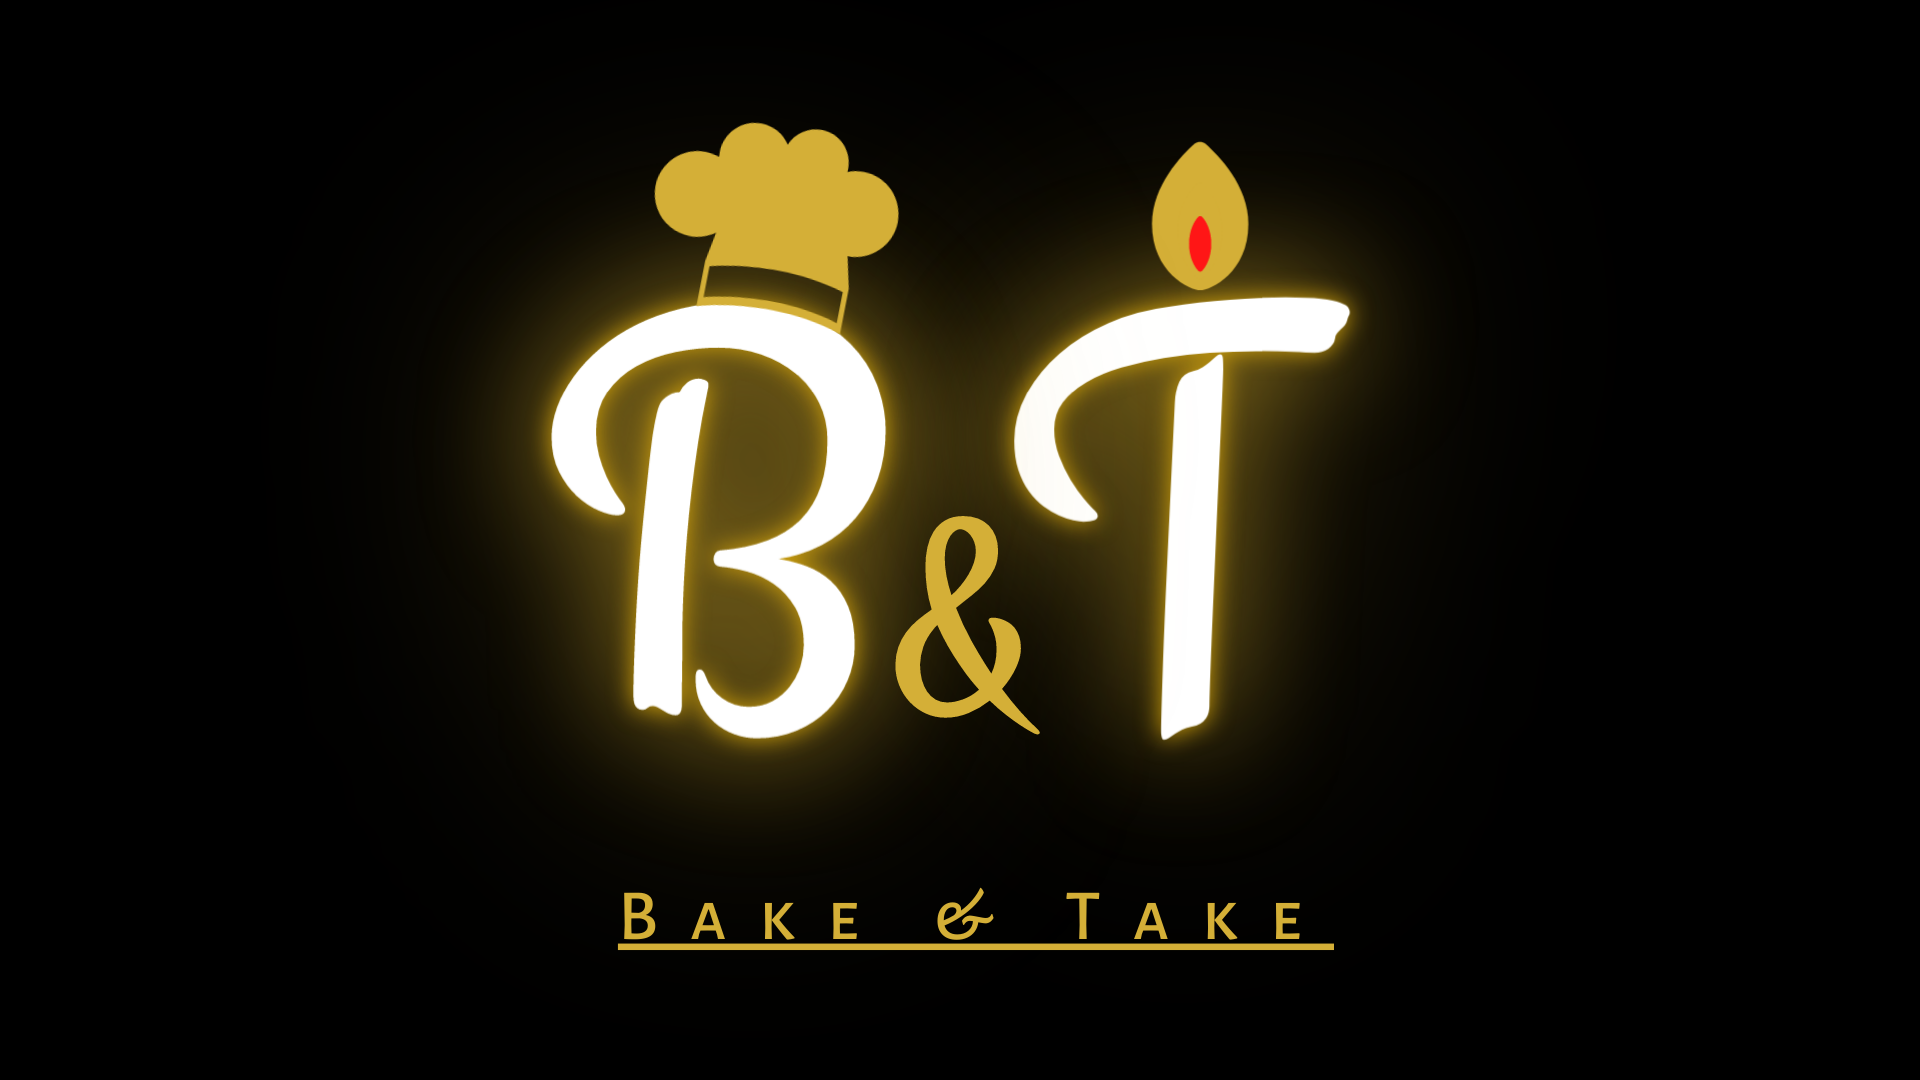
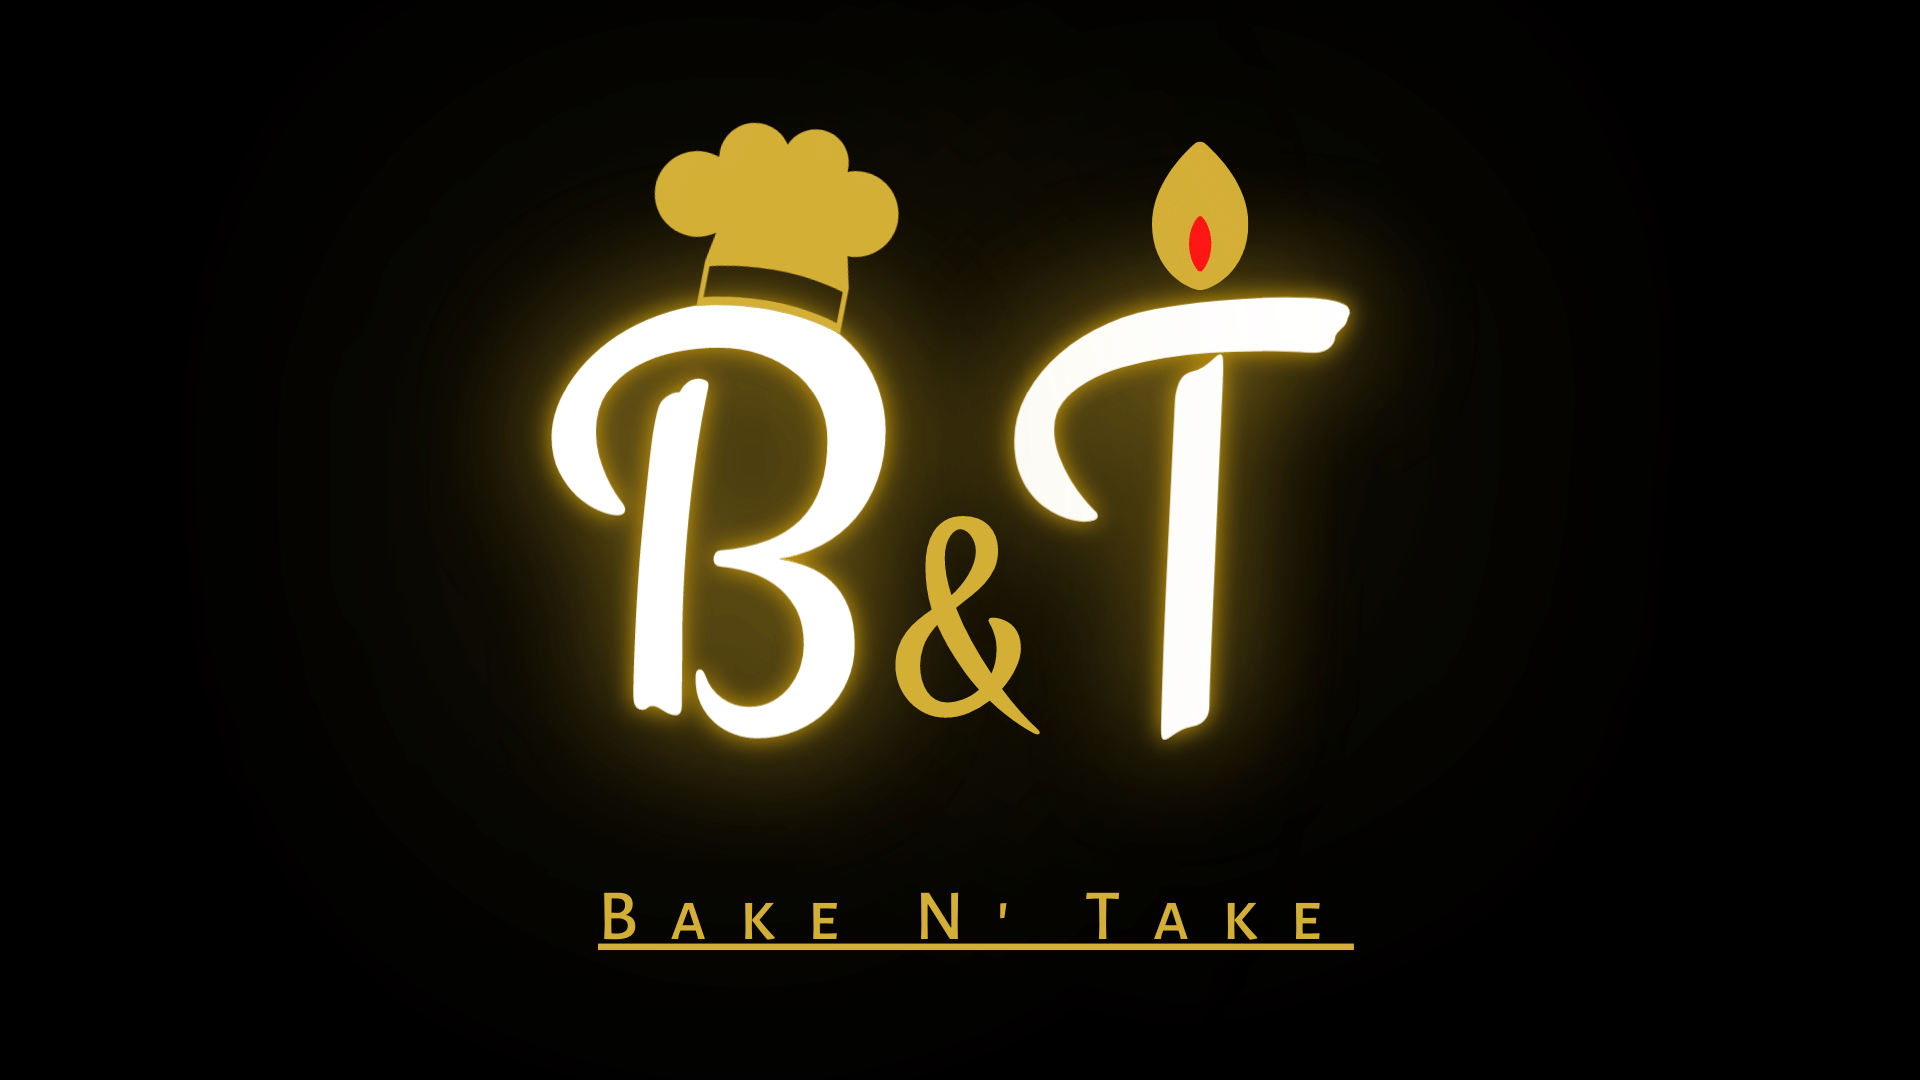
name changes

Changed region(s): [[0.5625, 0.825, 0.6875, 0.8861], [0.3125, 0.825, 0.4375, 0.8861], [0.4688, 0.825, 0.5312, 0.8861]]

diff --git a/src/components/topbar/topbar.module.css b/src/components/topbar/topbar.module.css
@@ -33,7 +33,7 @@
   margin: 1rem ;
   font-size: 1.2rem;
   text-decoration: none;
-  color:  #FFD700;
+  color:  #d4af37;
   padding: 0.2em;
   border-radius: 10%;
 }
@@ -45,8 +45,8 @@
   border-radius: 1rem;
  }
 @keyframes navlinks {
-  from{ color: #FFD700; background-color: black;}
-  to{color: black; background-color: #FFD700;}
+  from{ color: #d4af37; background-color: black;}
+  to{color: black; background-color: #d4af37;}
 }
 .topbar_links a:hover{
    opacity: 0.8;
@@ -63,7 +63,7 @@
   height: 21px;
   border-radius: 5px;
   border: none;
-  background-color: #FFD700;
+  background-color: #d4af37;
   display: none;
 }
 
@@ -137,7 +137,7 @@
   .toggle_button_label span::after,
   .toggle_button_label span::before{
     display: block;
-    background:#FFD700;
+    background:#d4af37;
     width: 1.5em;
     height: 0.2em;
     border-radius: 2px;
@@ -165,7 +165,7 @@
   }
   .toggle_button:checked ~  .toggle_button_label p{
     visibility: visible;
-    color: #FFD700;
+    color: #d4af37;
     position: absolute;
     top: -12%;
     left: -50%;

diff --git a/src/pages/Orderplaced/orderplaced.module.css b/src/pages/Orderplaced/orderplaced.module.css
@@ -7,7 +7,7 @@
   bottom: 0%;
   right: 0%;
   z-index: 99;
-  opacity: 0.8;
+  opacity: 1;
   pointer-events: none;
 }
 .outerwrapper{
@@ -19,16 +19,13 @@
 .wrapper{
  
   width: 70ch;
-  /* height:80ch; */
+  height: max-content;
   border-radius: 50px;
   background-color: rgba(255, 255, 255, 1);
   box-shadow: 2px 2px 10px  rgb(27, 26, 26);
   backdrop-filter: blur(2em);
   margin: auto;
-  /* margin-top: 7rem; */
-  /* margin-bottom: 7rem;  */
-  height: 35vw;
-   padding: 1rem;
+  padding: 2rem;
   z-index: 100;
 }
 .thumbsup{
@@ -47,16 +44,14 @@
   }
 .wrapper>h1{
   font-size: 3rem;
-  /* color: white; */
 }
 .wrapper>p{
   font-size: 1rem;
   margin-bottom: 3.5rem;
-  /* color: white; */
 }
 .wrapper>a{
   text-decoration: none;
-  color: #ffd710;
+  color: #d4af37;
   background-color: black;
   padding: 1rem;
   border-radius: 1rem;

diff --git a/src/pages/home/home.module.css b/src/pages/home/home.module.css
@@ -27,7 +27,7 @@
   height: 10px;
   width: 50%;
   border-radius: 25%;
-  background-color: #FFD700;
+  background-color: #d4af37;
   position: absolute;
   top: 100%;
   left:25%;
@@ -70,7 +70,7 @@
 .cake_gallery{
   margin-bottom: 4rem;
   padding: 4rem 0rem;
-  color: #FFD700;
+  color: #d4af37;
   background-color: #000000;
   height: fit-content;
   display: flex;
@@ -111,7 +111,7 @@ align-items: center;
 .fssai_btn a{
   text-decoration: none;
   background-color:#000000;
-  color:#FFD700;
+  color:#d4af37;
   padding: 0.5rem;
   border-radius: 1rem;
   margin-top: 2rem;
@@ -119,7 +119,7 @@ align-items: center;
   cursor: pointer;
 }
 .home_order{
-  color: #FFD700;
+  color: #d4af37;
   background-color: #000000;
   padding: 2rem 0rem;
   margin-bottom: 4rem;

diff --git a/src/components/footer/footer.module.css b/src/components/footer/footer.module.css
@@ -20,7 +20,7 @@
    background-color: black;
 }
 .footer_heading{
-  color: #ffd700;
+  color: #d4af37;
   position: relative;
   width: fit-content;
   text-align: center;
@@ -52,7 +52,7 @@
 }
 .footer_links>a{
   text-decoration: none;
-  color: #ffd700;
+  color: #d4af37;
 }
 .footer_innerwrapper2{
   display: inline-flex;
@@ -66,7 +66,7 @@
   margin-top: 10px;
 }
 .footer_innerwrapper1>p{
-  color: #ffd700;
+  color: #d4af37;
 }
 .footer_wrapper3{
   background-color: white;

diff --git a/src/pages/cake gallery/gallery.module.css b/src/pages/cake gallery/gallery.module.css
@@ -38,7 +38,7 @@
 .cakewrapper1>a{
   text-decoration: none;
   font-weight: 800;
-  color: #FFD700;
+  color: #d4af37;
   background-color: black;
   padding: 1rem;
   border-radius: 2rem;
@@ -65,7 +65,7 @@
   height: 10px;
   width: 50%;
   border-radius: 25%;
-  background-color: #FFD700;
+  background-color: #d4af37;
   position: absolute;
   top: 100%;
   left:25%;

diff --git a/src/pages/About/about.module.css b/src/pages/About/about.module.css
@@ -13,7 +13,7 @@
     height: 5px;
     width: 50%;
     border-radius: 5%;
-    background-color: #FFD700;
+    background-color: #d4af37;
     position: absolute;
     top: 100%;
     left:25%;

diff --git a/src/pages/Contact/contact.module.css b/src/pages/Contact/contact.module.css
@@ -14,7 +14,7 @@
     height: 5px;
     width: 50%;
     border-radius: 5%;
-    background-color: #FFD700;
+    background-color: #d4af37;
     position: absolute;
     top: 100%;
     left:25%;

diff --git a/src/pages/Order/order.css b/src/pages/Order/order.css
@@ -28,7 +28,7 @@
   margin: auto;
   background-color: black;
   border: none;
-  color: #ffd700;
+  color: #d4af37;
   padding: 1rem;
   font-weight: 600;
   font-size: 1.3rem;
